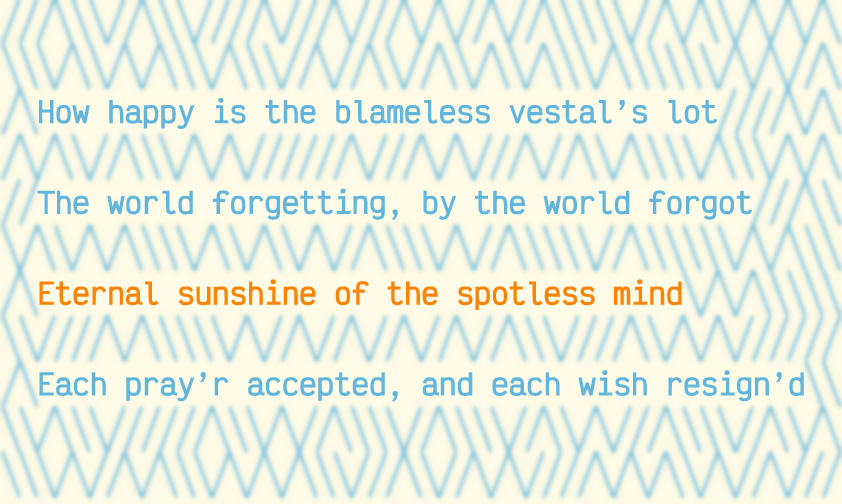
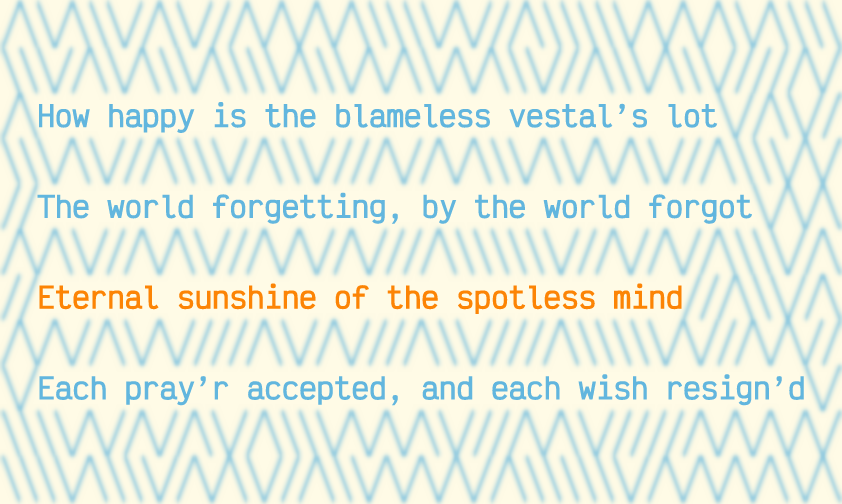
tweak

Changed region(s): [[0.0, 0.0, 1.0, 1.0], [0.5558, 0.7143, 0.5867, 0.744]]

diff --git a/JAN01-10/JAN07/sketch.js b/JAN01-10/JAN07/sketch.js
@@ -37,7 +37,7 @@ function draw() {
     background("#fffbe6");
 
     fill("#62b6de");
-    let y = margin/2-2;
+    let y = margin/2+2;
     for (let j = 0; j < n; j++) {
         let x = margin/2;
         for (let i = 0; i < m; i++) {
@@ -54,7 +54,7 @@ function draw() {
     filter(BLUR, 2);
 
     textFont(semiboldFont);
-    y = margin/2-2;
+    y = margin/2+2;
     for (let j = 0; j < n; j++) {
         let x = margin/2;
         for (let i = 0; i < m; i++) {
